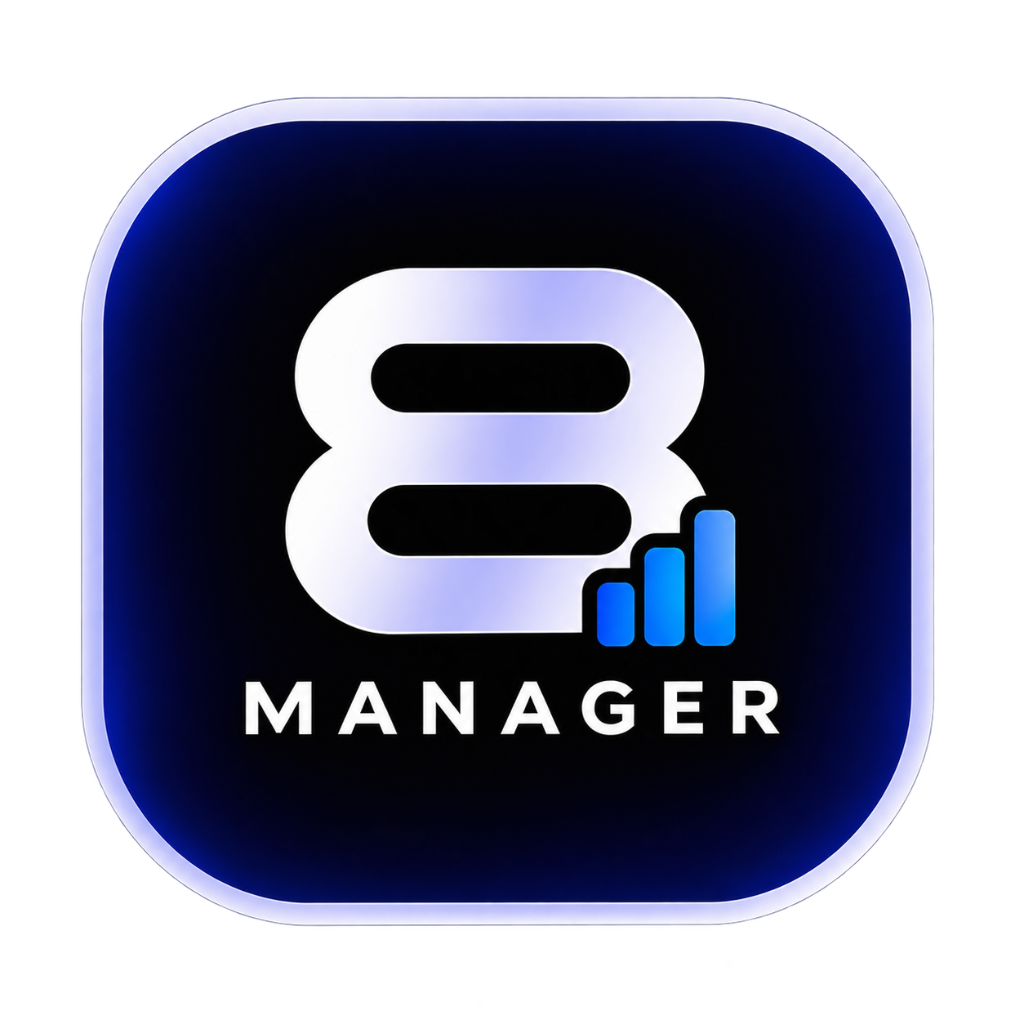
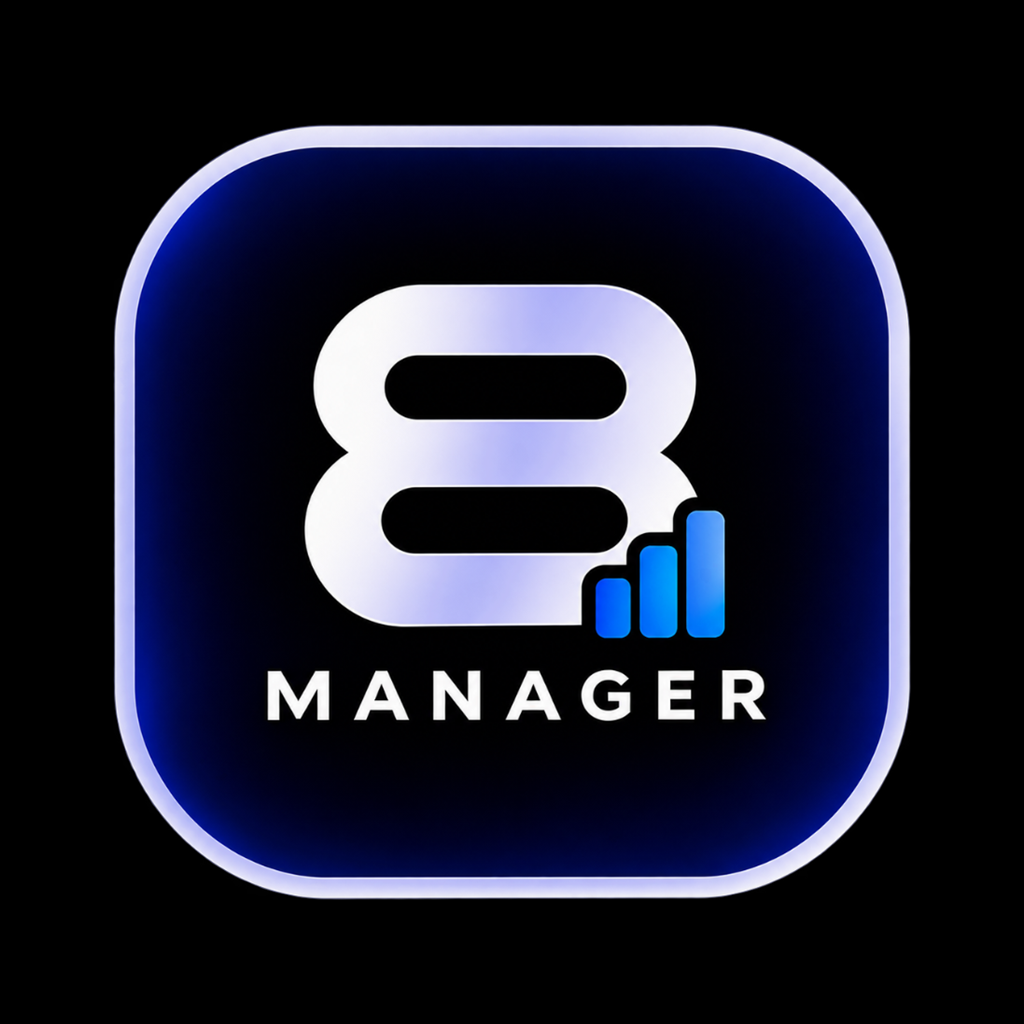
Corrige ícone adaptive e splash nativo do Manager como no cliente.
Recua a arte do ícone na safe zone com fundo preto e usa splash cheia no windowBackground, sem ícone pequenininho no Android 12.

diff --git a/plugins/withFullScreenSplash.js b/plugins/withFullScreenSplash.js
@@ -1,60 +1,130 @@
-const { withAndroidStyles, withDangerousMod, withMainActivity } = require('expo/config-plugins');
+const { withAndroidColors, withAndroidStyles, withDangerousMod, withMainActivity } = require('expo/config-plugins');
 const fs = require('fs');
 const path = require('path');
 
-const SPLASH_WINDOW = `<?xml version="1.0" encoding="utf-8"?>
-<layer-list xmlns:android="http://schemas.android.com/apk/res/android">
-    <item android:drawable="@color/splashscreen_background" />
-</layer-list>
-`;
+const SPLASH_SRC = 'assets/images/splash.png';
 
-const BLANK_ICON = `<?xml version="1.0" encoding="utf-8"?>
-<shape xmlns:android="http://schemas.android.com/apk/res/android">
-    <size android:width="1dp" android:height="1dp" />
-    <solid android:color="@android:color/transparent" />
-</shape>
-`;
-
-function upsertItem(style, name, value) {
-  const items = style.item ?? [];
-  const existing = items.find((item) => item.$?.name === name);
-  if (existing) {
-    existing._ = value;
-  } else {
-    items.push({ $: { name }, _: value });
-  }
-  style.item = items;
+function asArray(value) {
+  if (!value) return [];
+  return Array.isArray(value) ? value : [value];
 }
 
-/** Splash nativo só preenche a janela de preto. A arte e a transição ficam no JS (igual o app cliente). */
+function setStyleItem(style, name, value) {
+  style.item = asArray(style.item).filter((entry) => entry.$?.name !== name);
+  style.item.push({ $: { name }, _: value });
+}
+
+/**
+ * Igual ao app cliente: splash cheia no windowBackground nativo,
+ * ícone animado do Android 12 vazio (sem splash pequenininho no centro).
+ * Sem ImageView por cima do React.
+ */
 function withFullScreenSplash(config) {
   config = withDangerousMod(config, [
     'android',
     async (config) => {
-      const res = path.join(config.modRequest.platformProjectRoot, 'app/src/main/res');
+      const projectRoot = config.modRequest.projectRoot;
+      const res = path.join(projectRoot, 'android/app/src/main/res');
+      const src = path.join(projectRoot, SPLASH_SRC);
+      const nodpi = path.join(res, 'drawable-nodpi');
       const drawable = path.join(res, 'drawable');
-      fs.mkdirSync(drawable, { recursive: true });
-      fs.writeFileSync(path.join(drawable, 'splash_window.xml'), SPLASH_WINDOW);
-      fs.writeFileSync(path.join(drawable, 'splashscreen_blank.xml'), BLANK_ICON);
+
+      await fs.promises.mkdir(nodpi, { recursive: true });
+      await fs.promises.mkdir(drawable, { recursive: true });
+      await fs.promises.copyFile(src, path.join(nodpi, 'splash_full.png'));
+
+      await fs.promises.writeFile(
+        path.join(drawable, 'splash_full_bg.xml'),
+        `<?xml version="1.0" encoding="utf-8"?>
+<layer-list xmlns:android="http://schemas.android.com/apk/res/android">
+  <item>
+    <bitmap android:gravity="fill" android:src="@drawable/splash_full" />
+  </item>
+</layer-list>
+`
+      );
+
+      await fs.promises.writeFile(
+        path.join(drawable, 'splash_empty.xml'),
+        `<?xml version="1.0" encoding="utf-8"?>
+<shape xmlns:android="http://schemas.android.com/apk/res/android">
+  <size android:width="1dp" android:height="1dp" />
+  <solid android:color="#00000000" />
+</shape>
+`
+      );
+
+      const colorsFile = path.join(res, 'values/colors.xml');
+      try {
+        let xml = await fs.promises.readFile(colorsFile, 'utf8');
+        if (/name="splashscreen_background"/.test(xml)) {
+          xml = xml.replace(
+            /(<color name="splashscreen_background">)#[^<]+/i,
+            '$1#000000'
+          );
+        } else {
+          xml = xml.replace(
+            '</resources>',
+            '    <color name="splashscreen_background">#000000</color>\n</resources>'
+          );
+        }
+        await fs.promises.writeFile(colorsFile, xml);
+      } catch {
+        await fs.promises.mkdir(path.join(res, 'values'), { recursive: true });
+        await fs.promises.writeFile(
+          colorsFile,
+          `<?xml version="1.0" encoding="utf-8"?>
+<resources>
+    <color name="splashscreen_background">#000000</color>
+</resources>
+`
+        );
+      }
+
+      const entries = await fs.promises.readdir(res, { withFileTypes: true });
+      await Promise.all(
+        entries
+          .filter((entry) => entry.isDirectory() && entry.name.startsWith('drawable'))
+          .map(async (entry) => {
+            const file = path.join(res, entry.name, 'splashscreen_logo.png');
+            try {
+              await fs.promises.unlink(file);
+            } catch {
+              // ignore missing
+            }
+          })
+      );
+
       return config;
     },
   ]);
 
+  config = withAndroidColors(config, (config) => {
+    const colors = asArray(config.modResults.resources.color);
+    config.modResults.resources.color = [
+      ...colors.filter((entry) => entry.$?.name !== 'splashscreen_background'),
+      { $: { name: 'splashscreen_background' }, _: '#000000' },
+    ];
+    return config;
+  });
+
   config = withAndroidStyles(config, (config) => {
-    const styles = config.modResults.resources.style ?? [];
+    const styles = asArray(config.modResults.resources.style);
     for (const style of styles) {
       const name = style.$?.name;
-      if (name === 'AppTheme' || name === 'Theme.App.SplashScreen') {
-        upsertItem(style, 'android:windowBackground', '@color/splashscreen_background');
-      }
       if (name === 'AppTheme') {
-        upsertItem(style, 'android:navigationBarColor', '@android:color/black');
-        upsertItem(style, 'android:windowLightNavigationBar', 'false');
+        setStyleItem(style, 'android:windowBackground', '@android:color/black');
+        setStyleItem(style, 'android:navigationBarColor', '@android:color/black');
+        setStyleItem(style, 'android:windowLightNavigationBar', 'false');
+        setStyleItem(style, 'android:forceDarkAllowed', 'false');
       }
       if (name === 'Theme.App.SplashScreen') {
-        upsertItem(style, 'android:windowSplashScreenBackground', '@color/splashscreen_background');
-        upsertItem(style, 'android:windowSplashScreenAnimatedIcon', '@drawable/splashscreen_blank');
-        upsertItem(style, 'windowSplashScreenAnimatedIcon', '@drawable/splashscreen_blank');
+        setStyleItem(style, 'android:windowBackground', '@drawable/splash_full_bg');
+        setStyleItem(style, 'windowSplashScreenBackground', '#000000');
+        setStyleItem(style, 'android:windowSplashScreenBackground', '#000000');
+        setStyleItem(style, 'windowSplashScreenAnimatedIcon', '@drawable/splash_empty');
+        setStyleItem(style, 'android:windowSplashScreenAnimatedIcon', '@drawable/splash_empty');
+        setStyleItem(style, 'android:forceDarkAllowed', 'false');
       }
     }
     config.modResults.resources.style = styles;
@@ -63,7 +133,14 @@ function withFullScreenSplash(config) {
 
   config = withMainActivity(config, (config) => {
     let contents = config.modResults.contents;
-    // Remove overlay antigo (ImageView por cima do React) — ele matava a transição.
+    contents = contents.replace(
+      /\n[ \t]*\/\/ @generated begin expo-splashscreen[\s\S]*?\/\/ @generated end expo-splashscreen\n/,
+      '\n'
+    );
+    contents = contents.replace(
+      /\n[ \t]*try \{\n[ \t]*SplashScreenManager\.hide\(\)\n[ \t]*\} catch \(_e: Exception\) \{\n[ \t]*\}\n/g,
+      '\n'
+    );
     contents = contents.replace(
       /\n[ \t]*window\.setBackgroundDrawable\(android\.graphics\.drawable\.ColorDrawable\(android\.graphics\.Color\.BLACK\)\)\n[ \t]*showSplashArt\(\)\n/g,
       '\n'
@@ -77,6 +154,8 @@ function withFullScreenSplash(config) {
       /\n[ \t]*private fun hideSplashCut\(\) \{[\s\S]*?\n[ \t]*\}\n(?=\n[ \t]*\/\*\*)/,
       '\n'
     );
+    contents = contents.replace(/\nimport expo\.modules\.splashscreen\.SplashScreenManager\n/g, '\n');
+    contents = contents.replace(/\nimport android\.widget\.ImageView\n/g, '\n');
     config.modResults.contents = contents;
     return config;
   });
